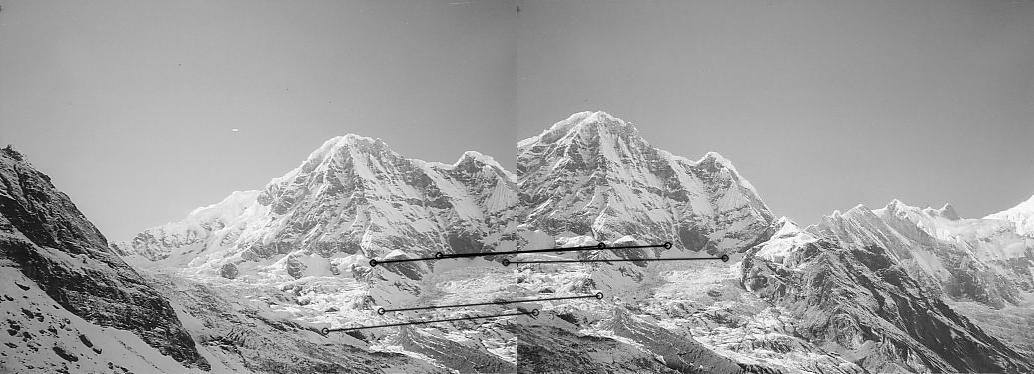
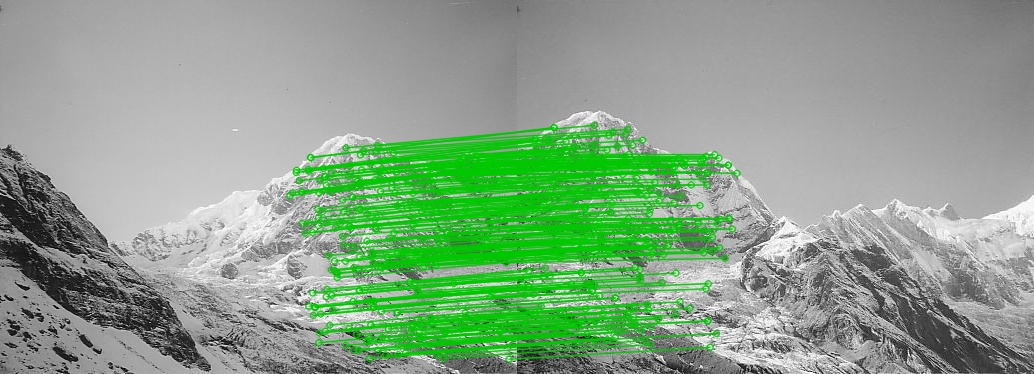
Updated code for Warp Functionality

Changed region(s): [[0.2785, 0.3235, 0.7118, 0.9706]]

diff --git a/Project 2/Task 1/imgFeaturesHomography.py b/Project 2/Task 1/imgFeaturesHomography.py
@@ -34,6 +34,7 @@ for m,n in matchedKeypoints:
     if m.distance < 0.75*n.distance:
         goodMatches.append(m)
 
+print(goodMatches)
 # Plot the matched keypoints that satisfied the threshold
 img3 = cv2.drawMatches(image1G,keyPointImage1,image2G,keyPointImage2,goodMatches,None,flags=2)
 cv2.imwrite("task1_matches_knn.jpg",img3)
@@ -41,7 +42,7 @@ cv2.imwrite("task1_matches_knn.jpg",img3)
 # Task 1.3 & 1.4
 
 sourcePoints = np.float32([keyPointImage1[m.queryIdx].pt for m in goodMatches])
-destinationPoints = np.float32([keyPointImage2[m.queryIdx].pt for m in goodMatches])
+destinationPoints = np.float32([keyPointImage2[m.trainIdx].pt for m in goodMatches])
 
 # for m in goodMatches:
 #     sourcePoints = np.float32(keyPointImage1[m.queryIndex].pt)
@@ -51,7 +52,7 @@ destinationPoints = np.float32([keyPointImage2[m.queryIdx].pt for m in goodMatch
 #     destinationPoints = np.float32(keyPointImage2[m.queryIndex].pt)
 # destinationPoints.reshape(-1,1,2)
 
-homographyMatrix, inOut = cv2.findHomography(sourcePoints,destinationPoints,cv2.RANSAC,5.0)
+homographyMatrix, inOut = cv2.findHomography(sourcePoints,destinationPoints,cv2.RANSAC)
 print("homography matrix H is: \n",homographyMatrix)
 print(type(inOut),inOut.shape)
 matchedMask = inOut.ravel().tolist() # ravel is used to flatten the inOut array
@@ -59,11 +60,16 @@ matchedMask = inOut.ravel().tolist() # ravel is used to flatten the inOut array
 unique, counts = np.unique(matchedMask, return_counts=True)
 print(dict(zip(unique, counts)))
 
-height,width = image1G.shape
+height1,width1 = image1G.shape
+height2,width2 = image2G.shape
+
+print(height1,width1)
+print(height2,width2)
+
 # points = np.float32([ [0,0],[0,height-1],[width-1,height-1],[width-1,0] ])
 # distance = cv2.perspectiveTransform(points,homographyMatrix)
 
-parameters = dict(matchColor = (0,0,0), # draw matches in black color
+parameters = dict(matchColor = (0,200,0), # draw matches in black color
                    singlePointColor = None,
                    matchesMask = matchedMask, # draw only inliers
                    flags = 2)
@@ -71,5 +77,13 @@ parameters = dict(matchColor = (0,0,0), # draw matches in black color
 img5 = cv2.drawMatches(image1G,keyPointImage1,image2G,keyPointImage2,goodMatches,None,**parameters)
 cv2.imwrite("task1_matches.jpg",img5)
 
-im_out = cv2.warpPerspective(image1G, homographyMatrix,(image2G.shape[1],image2G.shape[0]))
-cv2.imwrite("task1_pano.jpg",im_out)
+result = cv2.warpPerspective(image2G, homographyMatrix,
+			(image1G.shape[1] + image2G.shape[1], image1G.shape[0]))
+
+cv2.imwrite("Beforeedit.jpg",result)
+result[0:image2G.shape[0], 0:image2G.shape[1]] = image1G
+# result12 = cv2.warpPerspective(image1G, homographyMatrix,(image2G.shape[1], image2G.shape[0]))
+# cv2.imwrite("task1_pano12.jpg",result12)
+
+# result21 = cv2.warpPerspective(image2G, homographyMatrix,(image1G.shape[1], image1G.shape[0]))
+cv2.imwrite("afteredit.jpg",result)
